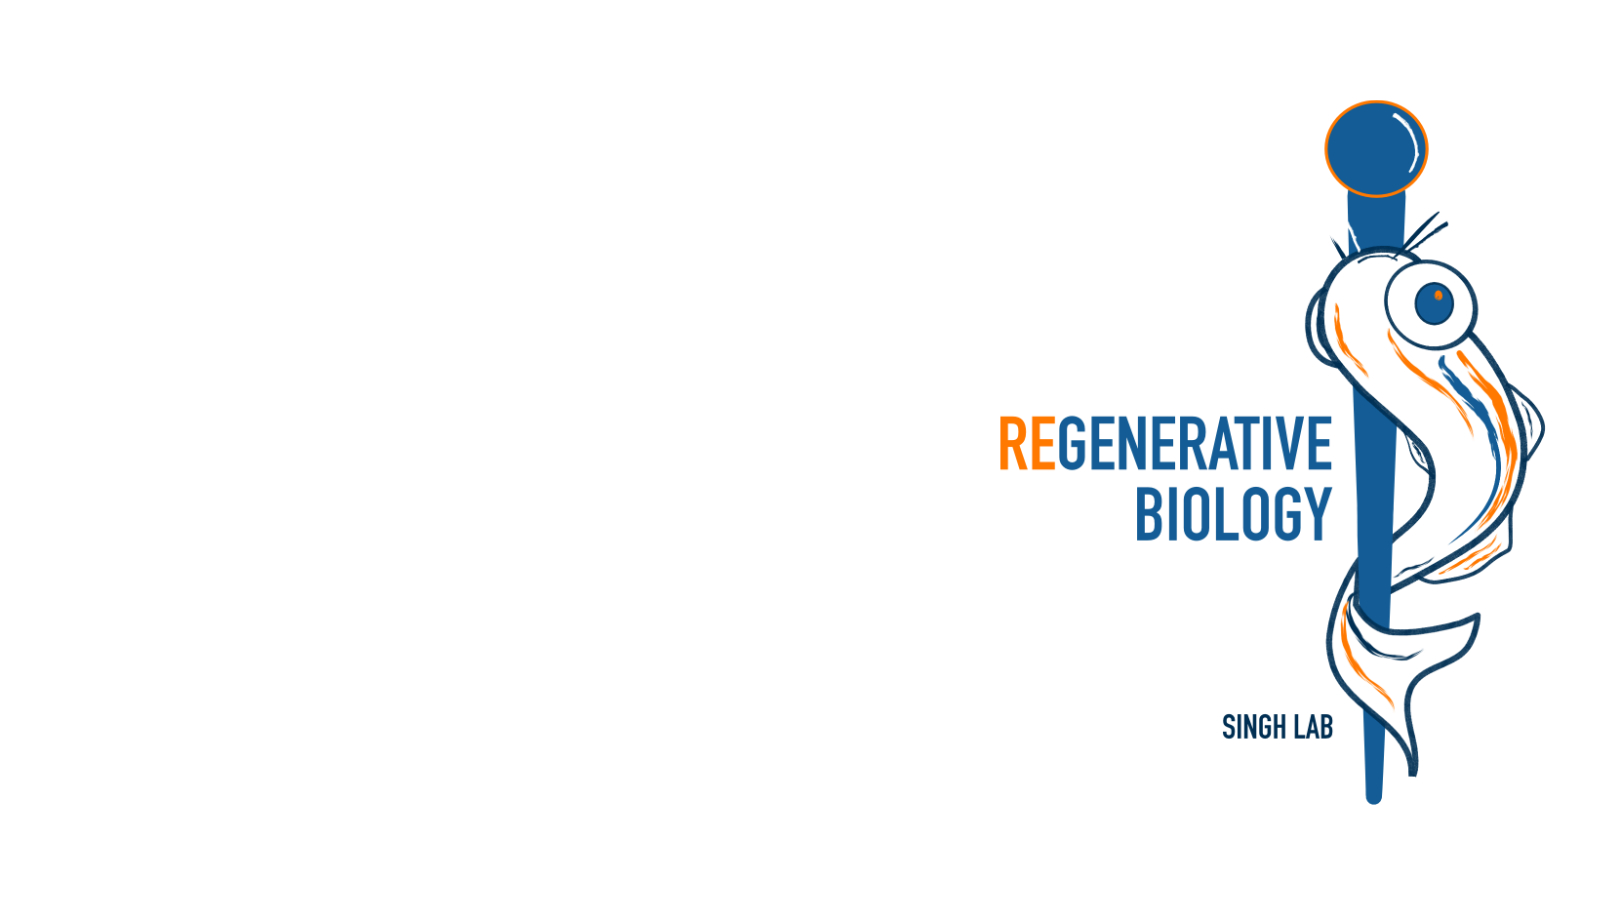
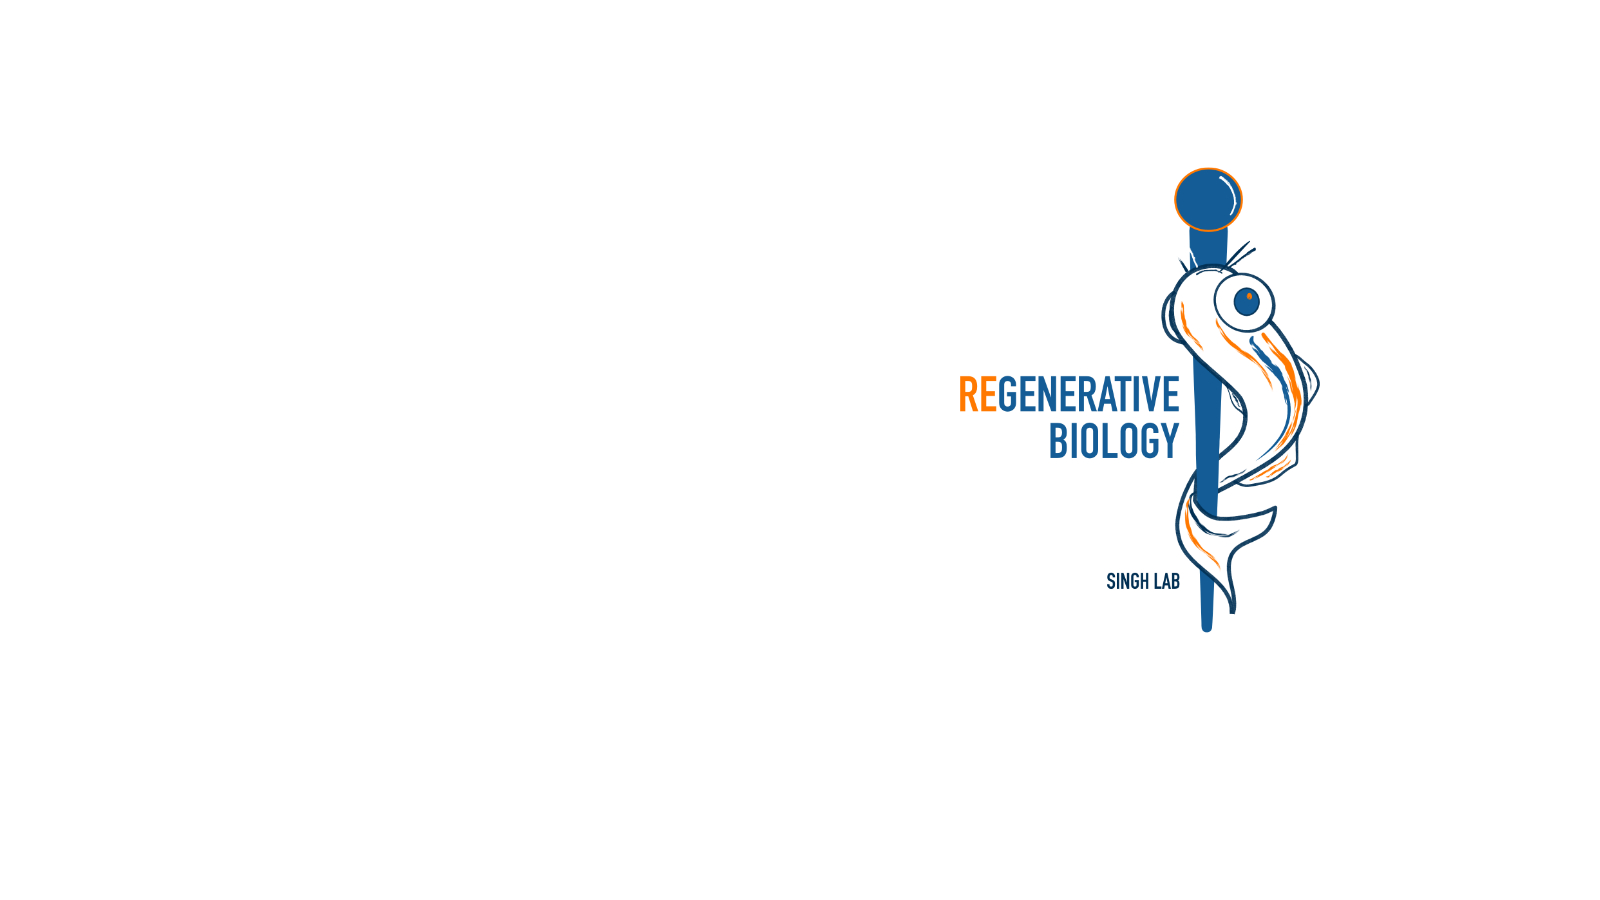
covers

Changed region(s): [[0.5938, 0.0933, 0.9688, 0.9022]]

diff --git a/blog/index.html b/blog/index.html
@@ -2,7 +2,7 @@
 layout: default
 title: Regenerative Biology
 description: Injury and Stress Response
-featured_image: /images/covers/Regeneratorstein.jpg
+featured_image: /images/covers/brokenFish.jpg
 ---
 
 <section class="hero hero--single">

diff --git a/_pages/contact.md b/_pages/contact.md
@@ -2,7 +2,7 @@
 title: Contact
 subtitle: We would like to hear from you. Better visit us!
 description: We would like to hear from you.
-featured_image: /images/demo/contact1.jpg
+featured_image: /images/covers/ModelOrganisms.jpg
 ---
 
 #### Location

diff --git a/_pages/members.md b/_pages/members.md
@@ -2,7 +2,7 @@
 title: Members
 subtitle: If you want to go fast, go alone. If you want to go far, go together.
 description: Singh Lab Members.
-featured_image: /images/demo/members.jpg
+featured_image: /images/covers/Cartoon.jpg
 ---
 
 #### 2022

diff --git a/_pages/gallery.md b/_pages/gallery.md
@@ -2,7 +2,7 @@
 title: Gallery
 subtitle: Seeing is believing.
 description: Pictures.
-featured_image: /images/demo/StarryNight.jpeg
+featured_image: /images/covers/RGB.jpg
 ---
 
 <div class="gallery" data-columns="2">

diff --git a/_pages/news.md b/_pages/news.md
@@ -2,7 +2,7 @@
 title: News
 subtitle: Small steps.
 description: Happenings in the lab.
-featured_image: /images/demo/publications.jpg
+featured_image: /images/covers/FishStages.jpg
 ---
 
 #### 10/2022
